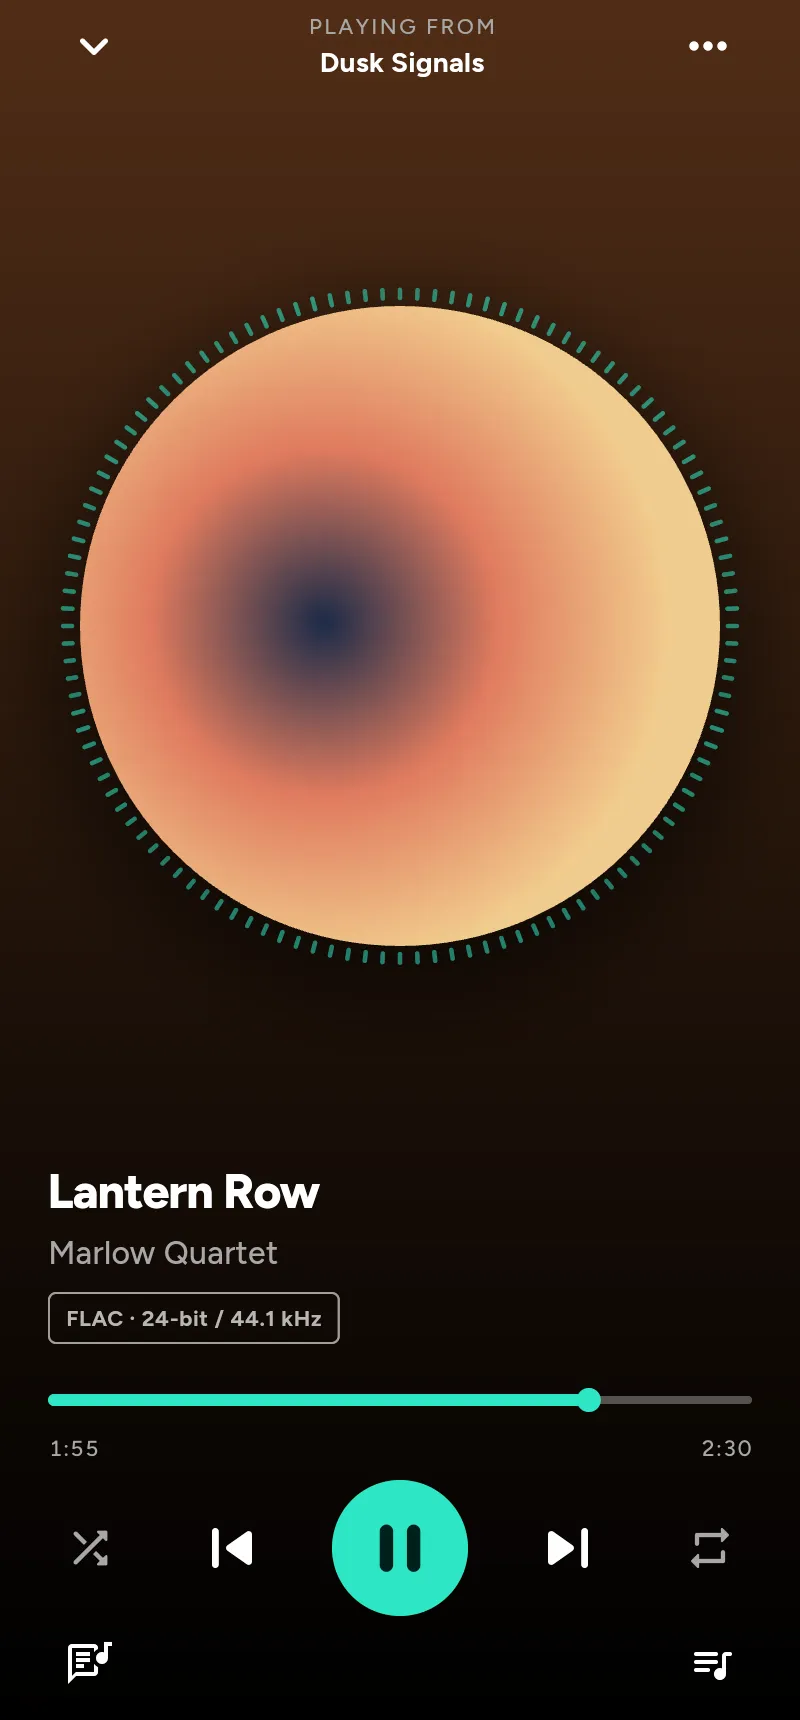
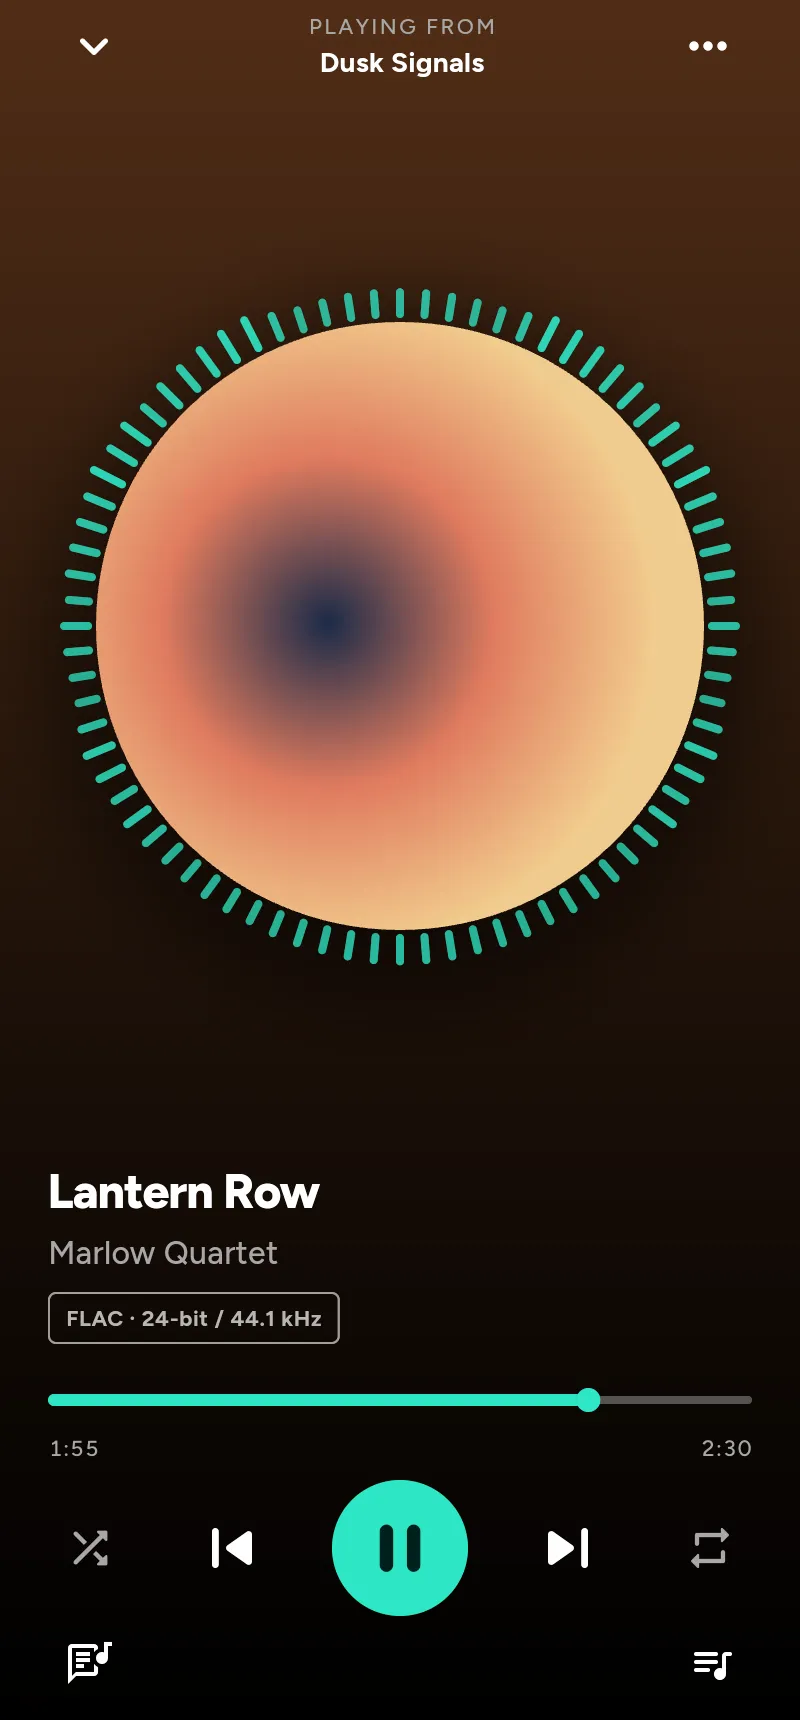
fix(ui): give visualizers solid forms and a dedicated space below artwork

Changed region(s): [[0.0625, 0.1541, 0.9375, 0.5547]]

diff --git a/lib/ui/widgets/audio_visualizer.dart b/lib/ui/widgets/audio_visualizer.dart
@@ -9,10 +9,11 @@ import 'audio_reactive_view.dart';
 
 /// Optional player decoration. Disabled means the original child and layout.
 class AudioVisualizer extends StatelessWidget {
-  const AudioVisualizer({super.key, this.child, this.radialOnly = false, this.linearOnly = false});
+  const AudioVisualizer({super.key, this.child, this.radialOnly = false, this.linearOnly = false, this.height = 72});
   final Widget? child;
   final bool radialOnly;
   final bool linearOnly;
+  final double height;
 
   @override
   Widget build(BuildContext context) => ListenableBuilder(
@@ -23,6 +24,7 @@ class AudioVisualizer extends StatelessWidget {
       if (!prefs.visualizer ||
           !LayoutPrefs.moves ||
           MediaQuery.disableAnimationsOf(context) ||
+          (child != null && !style.radial) ||
           (radialOnly && !style.radial) ||
           (linearOnly && style.radial)) {
         return child ?? const SizedBox.shrink();
@@ -40,7 +42,13 @@ class AudioVisualizer extends StatelessWidget {
             child: child != null
                 ? canvas
                 : IgnorePointer(
-                    child: SizedBox(height: 88, width: double.infinity, child: canvas),
+                    child: Align(
+                      heightFactor: 1,
+                      child: ConstrainedBox(
+                        constraints: const BoxConstraints(maxWidth: 560),
+                        child: SizedBox(height: height, width: double.infinity, child: canvas),
+                      ),
+                    ),
                   ),
           );
         },
@@ -73,7 +81,7 @@ class VisualizerCanvas extends StatelessWidget {
     }
     return CustomPaint(
       foregroundPainter: _VisualizerPainter(levels, color, style, child != null, radius),
-      child: child == null ? null : Padding(padding: const EdgeInsets.all(16), child: art),
+      child: child == null ? null : Padding(padding: EdgeInsets.all(style.radial ? 24 : 16), child: art),
     );
   }
 }
@@ -120,9 +128,13 @@ class _VisualizerPainter extends CustomPainter {
     if (size.isEmpty || levels.value.every((v) => v < 0.001)) return;
     // Remove part of the sustained level so small musical changes still read
     // as contours. Constant audio remains constant; silence stays empty.
-    final floor = levels.value.reduce(math.min) * 0.8;
+    final floor = levels.value.reduce(math.min) * 0.95;
     final peak = levels.value.reduce(math.max);
-    final values = levels.value.map((v) => (v - floor) * peak / (peak - floor)).toList();
+    final values = levels.value.map((v) {
+      final contrast = (v - floor) * peak / (peak - floor);
+      // Give quiet passages enough visual weight in a compact player strip.
+      return (math.pow(contrast, 0.6) * 1.4).clamp(0.0, 1.0).toDouble();
+    }).toList();
     canvas.save();
     canvas.clipRect(Offset.zero & size);
     if (style.radial) {
@@ -137,12 +149,12 @@ class _VisualizerPainter extends CustomPainter {
 
   void _radial(Canvas canvas, Size size, List<double> values) {
     final center = (Offset.zero & size).center;
-    final base = math.max(1.0, size.shortestSide / 2 - 16);
+    final base = math.max(1.0, size.shortestSide / 2 - 24);
     // Mirror the same history around the artwork. Both ends of the contour
     // meet with zero slope, rather than jumping at the oldest/newest sample.
     double level(double t) => sample(values, (1 - math.cos(t * math.pi * 2)) / 2);
     if (style == VisualizerStyle.petals || style == VisualizerStyle.orbit) {
-      final count = (base * 2 * math.pi / 7).floor().clamp(32, 120);
+      final count = (base * 2 * math.pi / 10).floor().clamp(24, 80);
       for (var i = 0; i < count; i++) {
         final t = i / count;
         final angle = t * math.pi * 2 - math.pi / 2;
@@ -151,36 +163,29 @@ class _VisualizerPainter extends CustomPainter {
         if (style == VisualizerStyle.petals) {
           canvas.drawLine(
             center + ray * (base + 4),
-            center + ray * (base + 5 + amplitude * 9),
-            pen(0.35 + amplitude * 0.5, width: 2.2),
+            center + ray * (base + 7 + amplitude * 14),
+            pen(0.55 + amplitude * 0.4, width: 4),
           );
         } else {
           canvas.drawCircle(
-            center + ray * (base + 5 + amplitude * 8),
-            1.0 + amplitude * 0.65,
-            pen(0.4 + amplitude * 0.5, fill: true),
+            center + ray * (base + 8 + amplitude * 10),
+            2.2 + amplitude,
+            pen(0.55 + amplitude * 0.4, fill: true),
           );
         }
       }
-      if (style == VisualizerStyle.orbit) {
-        final points = List.generate(64, (i) {
-          final t = i / 64;
-          final angle = t * math.pi * 2 - math.pi / 2;
-          return center + Offset(math.cos(angle), math.sin(angle)) * (base + 3 + level(t) * 3);
-        });
-        canvas.drawPath(curve(points, closed: true), pen(0.22, width: 1));
-      }
       return;
     }
-    for (var layer = 1; layer >= 0; layer--) {
-      final points = List.generate(48, (i) {
-        final t = i / 48;
-        final angle = t * math.pi * 2 - math.pi / 2;
-        final amplitude = level(layer == 0 ? t : (t + 0.08) % 1);
-        return center + Offset(math.cos(angle), math.sin(angle)) * (base + 4 + layer * 3 + amplitude * 7);
-      });
-      canvas.drawPath(curve(points, closed: true), pen(layer == 0 ? 0.85 : 0.28, width: layer == 0 ? 1.8 : 1));
-    }
+    final points = List.generate(64, (i) {
+      final t = i / 64;
+      final angle = t * math.pi * 2 - math.pi / 2;
+      return center + Offset(math.cos(angle), math.sin(angle)) * (base + 10 + level(t) * 12);
+    });
+    final band = Path()
+      ..fillType = PathFillType.evenOdd
+      ..addPath(curve(points, closed: true), Offset.zero)
+      ..addOval(Rect.fromCircle(center: center, radius: base + 4));
+    canvas.drawPath(band, pen(0.8, fill: true));
   }
 
   void _border(Canvas canvas, Size size, List<double> values) {
@@ -239,21 +244,21 @@ class _VisualizerPainter extends CustomPainter {
     }
 
     if (style == VisualizerStyle.bars || style == VisualizerStyle.dots || style == VisualizerStyle.mirror) {
-      final count = (bounds.width / 9).floor().clamp(16, 80);
+      final count = (bounds.width / 12).floor().clamp(16, 48);
       final step = bounds.width / count;
-      final width = (step * 0.38).clamp(1.5, 4.0);
+      final width = (step * 0.58).clamp(3.0, 7.0);
       for (var i = 0; i < count; i++) {
         final t = (i + 0.5) / count;
         final amplitude = envelope(t);
         final height = math.max(width, amplitude * bounds.height * 0.85);
         final x = bounds.left + (i + 0.5) * step;
         if (style == VisualizerStyle.dots) {
-          for (var y = 0.0; y < height; y += 6) {
-            canvas.drawCircle(Offset(x, bounds.bottom - y - 2), 1.4, pen(0.3 + amplitude * 0.55, fill: true));
+          for (var y = 0.0; y < height; y += 8) {
+            canvas.drawCircle(Offset(x, bounds.bottom - y - 3), 2.3, pen(0.5 + amplitude * 0.4, fill: true));
           }
         } else {
           final baseline = style == VisualizerStyle.mirror ? center + height / 2 : bounds.bottom;
-          canvas.drawLine(Offset(x, baseline), Offset(x, baseline - height), pen(0.75, width: width));
+          canvas.drawLine(Offset(x, baseline), Offset(x, baseline - height), pen(0.9, width: width));
         }
       }
       return;
@@ -270,9 +275,9 @@ class _VisualizerPainter extends CustomPainter {
           ..lineTo(bounds.right, bounds.bottom)
           ..lineTo(bounds.left, bounds.bottom)
           ..close();
-        canvas.drawPath(fill, pen(0.18, fill: true));
+        canvas.drawPath(fill, pen(0.8, fill: true));
       }
-      canvas.drawPath(path, pen(0.8, width: 1.6));
+      canvas.drawPath(path, pen(0.95, width: style == VisualizerStyle.line ? 3.5 : 2));
       return;
     }
 
@@ -283,17 +288,19 @@ class _VisualizerPainter extends CustomPainter {
       final x = bounds.left + bounds.width * t;
       final amplitude = envelope(t) * bounds.height * 0.42;
       top.add(Offset(x, center - amplitude));
-      bottom.add(Offset(x, center + (twin ? envelope(1 - t) * bounds.height * 0.3 : amplitude * 0.65)));
+      bottom.add(Offset(x, center + (twin ? envelope(1 - t) * bounds.height * 0.3 : amplitude * 0.85)));
     }
     final upper = curve(top), lower = curve(bottom);
     if (!twin) {
       final ribbon = Path.from(upper)
         ..extendWithPath(curve(bottom.reversed.toList()), Offset.zero)
         ..close();
-      canvas.drawPath(ribbon, pen(0.14, fill: true));
+      canvas.drawPath(ribbon, pen(0.85, fill: true));
     }
-    canvas.drawPath(upper, pen(0.8, width: 1.6));
-    canvas.drawPath(lower, pen(twin ? 0.5 : 0.3, width: 1.2));
+    if (twin) {
+      canvas.drawPath(upper, pen(0.95, width: 5));
+      canvas.drawPath(lower, pen(0.5, width: 5));
+    }
   }
 
   @override

diff --git a/lib/ui/player/now_playing_page.dart b/lib/ui/player/now_playing_page.dart
@@ -124,6 +124,14 @@ class NowPlayingPage extends StatelessWidget {
                         // On very short windows the cover (then the quality badge) makes way.
                         final showBadge = constraints.maxHeight >= 480 && LayoutPrefs.instance.showQualityBadge;
                         final largeCover = LayoutPrefs.instance.phoneCover == PhoneCoverSize.large;
+                        final showStrip =
+                            track != null &&
+                            LayoutPrefs.instance.visualizer &&
+                            !LayoutPrefs.instance.visualizerStyle.radial &&
+                            LayoutPrefs.moves &&
+                            !MediaQuery.disableAnimationsOf(context) &&
+                            !showsVideo;
+                        final stripHeight = showStrip && constraints.maxHeight >= 560 ? 64.0 : 0.0;
                         // A phone held sideways: the cover goes beside the controls.
                         final sideways = constraints.maxWidth > constraints.maxHeight && constraints.maxHeight < 480;
                         final topBar = Row(
@@ -232,8 +240,14 @@ class NowPlayingPage extends StatelessWidget {
                           );
                         }
                         final art = largeCover
-                            ? math.min(constraints.maxWidth - 24, constraints.maxHeight - (showBadge ? 364 : 328))
-                            : math.min(constraints.maxWidth - 48, constraints.maxHeight - (showBadge ? 400 : 364));
+                            ? math.min(
+                                constraints.maxWidth - 24,
+                                constraints.maxHeight - (showBadge ? 364 : 328) - stripHeight,
+                              )
+                            : math.min(
+                                constraints.maxWidth - 48,
+                                constraints.maxHeight - (showBadge ? 400 : 364) - stripHeight,
+                              );
                         return Padding(
                           padding: const EdgeInsets.symmetric(horizontal: 24),
                           child: Column(
@@ -249,6 +263,10 @@ class NowPlayingPage extends StatelessWidget {
                                       )
                                     : cover(art),
                               const Spacer(),
+                              if (stripHeight > 0) ...[
+                                const AudioVisualizer(linearOnly: true, height: 56),
+                                const SizedBox(height: 8),
+                              ],
                               info,
                               const SizedBox(height: 16),
                               const SeekBar(),

diff --git a/test/audio_visualizer_test.dart b/test/audio_visualizer_test.dart
@@ -37,6 +37,23 @@ void main() {
     expect(tester.takeException(), isNull);
   });
 
+  testWidgets('linear visualizers preserve the artwork without a decorative border', (tester) async {
+    await prefs.setVisualizer(true);
+    for (final style in VisualizerStyle.values.where((style) => !style.radial)) {
+      await prefs.setVisualizerStyle(style);
+      await tester.pumpWidget(
+        const MaterialApp(
+          home: Center(
+            child: AudioVisualizer(child: SizedBox(key: ValueKey('art'), width: 200, height: 200)),
+          ),
+        ),
+      );
+      expect(tester.getSize(find.byKey(const ValueKey('art'))), const Size(200, 200));
+      expect(find.descendant(of: find.byType(AudioVisualizer), matching: find.byType(CustomPaint)), findsNothing);
+    }
+    expect(tester.takeException(), isNull);
+  });
+
   testWidgets('settings exposes style choices only after enabling the visualizer', (tester) async {
     await tester.pumpWidget(
       const MaterialApp(

diff --git a/lib/ui/player/full_screen_player.dart b/lib/ui/player/full_screen_player.dart
@@ -242,7 +242,8 @@ class _FullScreenPlayerState extends State<FullScreenPlayer> {
                           ),
                         ),
                 ),
-                if (track != null) const AudioVisualizer(linearOnly: true),
+                if (track != null)
+                  const Padding(padding: EdgeInsets.fromLTRB(32, 8, 32, 16), child: AudioVisualizer(linearOnly: true)),
               ],
             ),
             // Tells first-timers how to get out, then fades away.

diff --git a/lib/services/layout_prefs.dart b/lib/services/layout_prefs.dart
@@ -20,7 +20,7 @@ enum DesktopBarStyle {
   final String label;
 }
 
-/// The same visual language, adapted to a desktop wave or a phone cover border.
+/// The same visual language in a player strip or a radial artwork surround.
 enum VisualizerStyle {
   wave('Wave'),
   bars('Bars'),

diff --git a/README.md b/README.md
@@ -94,7 +94,7 @@ Feature options live in their respective Settings pages. Power & background has 
 |---|---|
 | **Themes** | Catppuccin, Nord, Gruvbox, Dracula or your own colors. Any font and accent. Light, dark or match your system, for every theme. High contrast. Components share the chosen scheme; Linux can follow [Matugen colors](docs/matugen/README.md) automatically |
 | **Player backgrounds** | Simple by default; optional Aurora, Silk, Orbits and Prism abstract backgrounds with a separate music-reactive switch. Only on Now Playing |
-| **Audio visualizer** | Ten optional styles: Wave, Bars, Line, Dots, Mirror, Twin waves, Pulse, Orbit, Petals and Peaks. Driven by decoded audio; linear shapes below the desktop player or radial shapes around its cover, with compact cover borders on phones. Stops when hidden or paused |
+| **Audio visualizer** | Ten optional styles: Wave, Bars, Line, Dots, Mirror, Twin waves, Pulse, Orbit, Petals and Peaks. Driven by decoded audio, with filled waves and rounded bars in their own space below the cover. Radial styles surround the artwork. Stops when hidden or paused |
 | **Dynamic theme** | Follows the cover of what's playing, local or YouTube. Cover-art colors in the player or the whole app, with adjustable strength |
 | **Layout options** | Corners, spacing, cover size, the phone's tab bar (ten looks, from a classic docked bar to Dock, Capsule and Liquid glass), five desktop player bars, Home sections, player and lyrics looks, nine page transition presets (including Circular reveal), adjustable animation speed |
 | **Adaptive layouts** | Phone, tablet and desktop. Mini and full-screen player |
